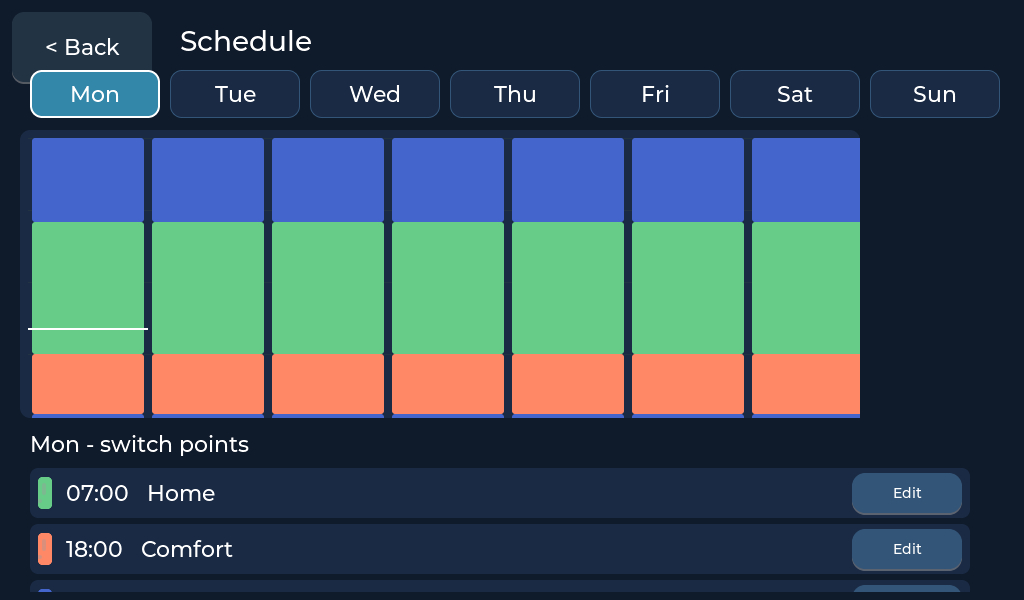
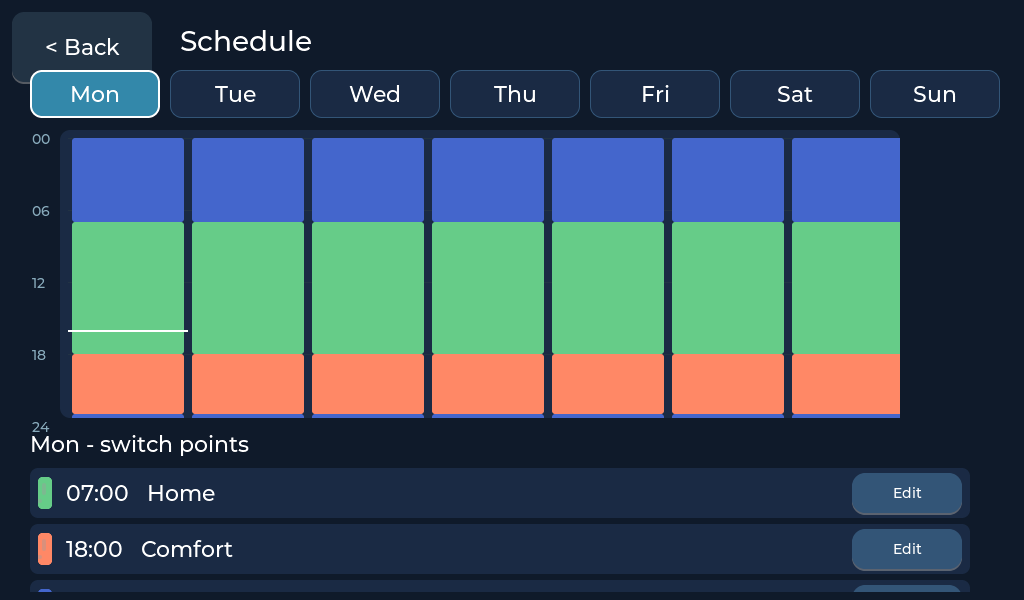
Life360 → its own "Family" tile; schedule Y-axis labels visible
Right column on home reorganised:
  - Energy:  shrunk from 200 → 130 px tall (font 48 → 28, gas 22 → 18)
  - Family:  new 130-px tile at the freed slot (790, 160), shows
             "Ronald: <loc>" and "Caja: <loc>" — Life360 data straight
             from HA. Header colour 0xff8866 (warm) so it stands out
             from the cooler-blue Energy/Water.
  - Water:   moved down to (790, 300), same 130 px height, sub-label
             dropped to font 18 to match Energy's compression.

Home + dim city header reverted to weather-only ("Medemblik - 14.7 C
now") so the Life360 strings live on the dedicated tile instead of
shared with the forecast line.

Schedule timeline Y-axis hour labels (00/06/12/18/24) are now actually
on screen. Were created as children of timeline_box with x=-32 which
landed at absolute x=-12 — off the left edge. Anchored them to
scr_root with absolute positions and shifted timeline_box right by
40 px so a clean ~30-px gutter exists for the labels.

diff --git a/lvgl_ui_recovered/src/screen_home.c b/lvgl_ui_recovered/src/screen_home.c
@@ -87,6 +87,8 @@ static lv_obj_t * fc_icon[WEATHER_FORECAST_DAYS];
 static lv_obj_t * water_spinner;
 static lv_obj_t * forecast_box;
 static lv_obj_t * lbl_forecast_city = NULL;
+static lv_obj_t * lbl_life360_ronald = NULL;
+static lv_obj_t * lbl_life360_caja   = NULL;
 static lv_obj_t * lbl_outside_main;
 static lv_obj_t * lbl_outside_sub;
 static lv_obj_t * fc_day_lbl[WEATHER_FORECAST_DAYS];
@@ -819,28 +821,24 @@ static void refresh_cb(lv_timer_t * t) {
         lv_label_set_text_fmt(lbl_outside_main, "%.1f C",
                               weather_state.current_temp);
     }
-    /* "Medemblik - 14.7 C now   |   Ronald: home  Caja: home" header
-     * above the forecast strip. Life360 strings come from HA poller —
-     * stay blank if Life360 isn't available so the city still reads. */
+    /* "Medemblik - 14.7 C now" header above the forecast strip. Life360
+     * moved to its own tile so this stays purely weather. */
     if (lbl_forecast_city) {
         const char * city = settings.weather_location[0] ? settings.weather_location : "Forecast";
-        char wx[64];
         if (weather_state.connected)
-            snprintf(wx, sizeof wx, "%s  -  %.1f C now",
-                     city, weather_state.current_temp);
+            lv_label_set_text_fmt(lbl_forecast_city, "%s  -  %.1f C now",
+                                  city, weather_state.current_temp);
         else
-            snprintf(wx, sizeof wx, "%s", city);
-
-        if (ha_state.loc_ronald[0] || ha_state.loc_caja[0]) {
-            lv_label_set_text_fmt(lbl_forecast_city,
-                "%s   |   Ronald: %s   Caja: %s",
-                wx,
-                ha_state.loc_ronald[0] ? ha_state.loc_ronald : "?",
-                ha_state.loc_caja[0]   ? ha_state.loc_caja   : "?");
-        } else {
-            lv_label_set_text(lbl_forecast_city, wx);
-        }
+            lv_label_set_text(lbl_forecast_city, city);
     }
+
+    /* Family tile (Life360). Empty strings show "?". */
+    if (lbl_life360_ronald)
+        lv_label_set_text_fmt(lbl_life360_ronald, "Ronald: %s",
+            ha_state.loc_ronald[0] ? ha_state.loc_ronald : "?");
+    if (lbl_life360_caja)
+        lv_label_set_text_fmt(lbl_life360_caja, "Caja: %s",
+            ha_state.loc_caja[0]   ? ha_state.loc_caja   : "?");
 
     /* Forecast band — splat-recovery left two more copies of this
        writer further down; gate them on the same hourly/daily decision so
@@ -1296,17 +1294,19 @@ lv_obj_t * screen_home_create(void) {
        on the Heater bottom strip). Big live power on top, gas total below,
        today's kWh in the corner. */
     tile_t energy_t;
-    make_tile(scr_root, 790, 20, 214, 200, "Energy", 0xaa77ff,
+    make_tile(scr_root, 790, 20, 214, 130, "Energy", 0xaa77ff,
               open_stats, &energy_t);
+    /* Compressed for the new 130-px tile: 28-pt W value (was 48), gas
+     * total on the same baseline range below. */
     lbl_energy_w = lv_label_create(energy_t.tile);
     lv_obj_set_style_text_color(lbl_energy_w, lv_color_hex(COL_TEXT_HI), 0);
-    lv_obj_set_style_text_font(lbl_energy_w, &lv_font_montserrat_48, 0);
+    lv_obj_set_style_text_font(lbl_energy_w, &lv_font_montserrat_28, 0);
     lv_label_set_text(lbl_energy_w, "-- W");
-    lv_obj_align(lbl_energy_w, LV_ALIGN_CENTER, 0, -14);
+    lv_obj_align(lbl_energy_w, LV_ALIGN_CENTER, 0, -8);
 
     lbl_energy_gas = lv_label_create(energy_t.tile);
     lv_obj_set_style_text_color(lbl_energy_gas, lv_color_hex(COL_TEXT_DIM), 0);
-    lv_obj_set_style_text_font(lbl_energy_gas, &lv_font_montserrat_22, 0);
+    lv_obj_set_style_text_font(lbl_energy_gas, &lv_font_montserrat_18, 0);
     lv_label_set_text(lbl_energy_gas, "-- m3 gas");
     lv_obj_align(lbl_energy_gas, LV_ALIGN_BOTTOM_LEFT, 0, -4);
 
@@ -1393,8 +1393,29 @@ lv_obj_t * screen_home_create(void) {
     lv_label_set_text(lbl_boiler_pressure, "--\n--");
     lv_obj_align(lbl_boiler_pressure, LV_ALIGN_BOTTOM_MID, 0, -38);
 
+    /* Family tile — Life360 locations for Ronald + Caja. Sits between
+     * the shrunken Energy and Water tiles in the right column. */
+    tile_t family_t;
+    make_tile(scr_root, 790, 160, 214, 130, "Family", 0xff8866,
+              open_placeholder, &family_t);
+    lbl_life360_ronald = lv_label_create(family_t.tile);
+    lv_obj_set_style_text_color(lbl_life360_ronald, lv_color_hex(COL_TEXT_HI), 0);
+    lv_obj_set_style_text_font(lbl_life360_ronald, &lv_font_montserrat_18, 0);
+    lv_obj_set_width(lbl_life360_ronald, 194);
+    lv_label_set_long_mode(lbl_life360_ronald, LV_LABEL_LONG_DOT);
+    lv_label_set_text(lbl_life360_ronald, "Ronald: ?");
+    lv_obj_align(lbl_life360_ronald, LV_ALIGN_TOP_LEFT, 0, 44);
+
+    lbl_life360_caja = lv_label_create(family_t.tile);
+    lv_obj_set_style_text_color(lbl_life360_caja, lv_color_hex(COL_TEXT_HI), 0);
+    lv_obj_set_style_text_font(lbl_life360_caja, &lv_font_montserrat_18, 0);
+    lv_obj_set_width(lbl_life360_caja, 194);
+    lv_label_set_long_mode(lbl_life360_caja, LV_LABEL_LONG_DOT);
+    lv_label_set_text(lbl_life360_caja, "Caja: ?");
+    lv_obj_align(lbl_life360_caja, LV_ALIGN_TOP_LEFT, 0, 76);
+
     tile_t water_t;
-    make_tile(scr_root, 790, 230, 214, 200, "Water", 0x44aaff, open_placeholder, &water_t);
+    make_tile(scr_root, 790, 300, 214, 130, "Water", 0x44aaff, open_placeholder, &water_t);
     lbl_inbox_main = lv_label_create(water_t.tile);
     lv_obj_set_style_text_color(lbl_inbox_main, lv_color_hex(COL_TEXT_HI), 0);
     lv_obj_set_style_text_font(lbl_inbox_main, &lv_font_montserrat_28, 0);
@@ -1402,9 +1423,9 @@ lv_obj_t * screen_home_create(void) {
     lv_obj_align(lbl_inbox_main, LV_ALIGN_CENTER, 0, -8);
     lbl_inbox_sub = lv_label_create(water_t.tile);
     lv_obj_set_style_text_color(lbl_inbox_sub, lv_color_hex(COL_TEXT_DIM), 0);
-    lv_obj_set_style_text_font(lbl_inbox_sub, &lv_font_montserrat_22, 0);
+    lv_obj_set_style_text_font(lbl_inbox_sub, &lv_font_montserrat_18, 0);
     lv_label_set_text(lbl_inbox_sub, "-- L/min");
-    lv_obj_align(lbl_inbox_sub, LV_ALIGN_BOTTOM_MID, 0, -8);
+    lv_obj_align(lbl_inbox_sub, LV_ALIGN_BOTTOM_MID, 0, -4);
 
     /* Spinner overlay: visible only while water is flowing. lv_spinner draws
        a continuously-rotating arc that reads as "something is moving". */

diff --git a/lvgl_ui_recovered/src/screen_dim.c b/lvgl_ui_recovered/src/screen_dim.c
@@ -237,24 +237,14 @@ static void refresh_cb(lv_timer_t * t) {
     }
     /* Forecast strip — 3-hourly to match home screen. Falls back to daily
      * if the hourly feed hasn't populated yet (first 30 s after boot). */
-    /* City header — same as home tile, including the Life360 locations
-     * for Ronald + Caja so dim is just as informative. */
+    /* City header — weather only. (Life360 lives on the Family tile on
+     * the home screen.) */
     if (dim_lbl_city) {
         if (settings.show_dim_weather && weather_state.connected) {
             const char * city = settings.weather_location[0]
                                 ? settings.weather_location : "Forecast";
-            char wx[80];
-            snprintf(wx, sizeof wx, "%s  -  %.1f C now",
-                     city, weather_state.current_temp);
-            if (ha_state.loc_ronald[0] || ha_state.loc_caja[0]) {
-                lv_label_set_text_fmt(dim_lbl_city,
-                    "%s   |   Ronald: %s   Caja: %s",
-                    wx,
-                    ha_state.loc_ronald[0] ? ha_state.loc_ronald : "?",
-                    ha_state.loc_caja[0]   ? ha_state.loc_caja   : "?");
-            } else {
-                lv_label_set_text(dim_lbl_city, wx);
-            }
+            lv_label_set_text_fmt(dim_lbl_city, "%s  -  %.1f C now",
+                                  city, weather_state.current_temp);
             lv_obj_clear_flag(dim_lbl_city, LV_OBJ_FLAG_HIDDEN);
         } else {
             lv_obj_add_flag(dim_lbl_city, LV_OBJ_FLAG_HIDDEN);

diff --git a/lvgl_ui_recovered/src/screen_schedule.c b/lvgl_ui_recovered/src/screen_schedule.c
@@ -82,12 +82,18 @@ static void rebuild_timeline(void) {
         lv_obj_set_style_border_width(tick, 0, 0);
         lv_obj_set_style_radius(tick, 0, 0);
         lv_obj_clear_flag(tick, LV_OBJ_FLAG_SCROLLABLE);
-        /* Hour label on the LEFT outside the column area. */
-        lv_obj_t * hl = lv_label_create(timeline_box);
+        /* Hour label on the LEFT outside the column area. Anchored to
+         * scr_root with absolute coords because timeline_box sits flush
+         * against the left edge (x=20) and there's no negative-x room
+         * for labels positioned relative to the box. */
+        lv_obj_t * hl = lv_label_create(scr_root);
         lv_label_set_text_fmt(hl, "%02d", hr);
         lv_obj_set_style_text_color(hl, lv_color_hex(0x88aabb), 0);
         lv_obj_set_style_text_font(hl, &lv_font_montserrat_14, 0);
-        lv_obj_set_pos(hl, -32, y - 7);
+        /* timeline_box at (TL_X-20=60, TL_Y); pad_all=8 internally → the
+         * y=0 row inside the box is at screen y = TL_Y+8. Labels sit
+         * just left of the box. */
+        lv_obj_set_pos(hl, TL_X - 20 - 28, TL_Y + 8 + y - 7);
     }
 
     /* Schedule blocks. Each is a vertical rectangle inside its day's
@@ -540,7 +546,8 @@ lv_obj_t * screen_schedule_create(void) {
     /* Timeline container */
     timeline_box = lv_obj_create(scr_root);
     lv_obj_set_size(timeline_box, TL_W, TL_H);
-    lv_obj_set_pos(timeline_box, TL_X - 60, TL_Y);
+    /* Origin offset by 40 px on the left so the hour-axis labels fit. */
+    lv_obj_set_pos(timeline_box, TL_X - 20, TL_Y);
     lv_obj_set_style_bg_color(timeline_box, lv_color_hex(0x1a2a44), 0);
     lv_obj_set_style_radius(timeline_box, 10, 0);
     lv_obj_set_style_border_width(timeline_box, 0, 0);